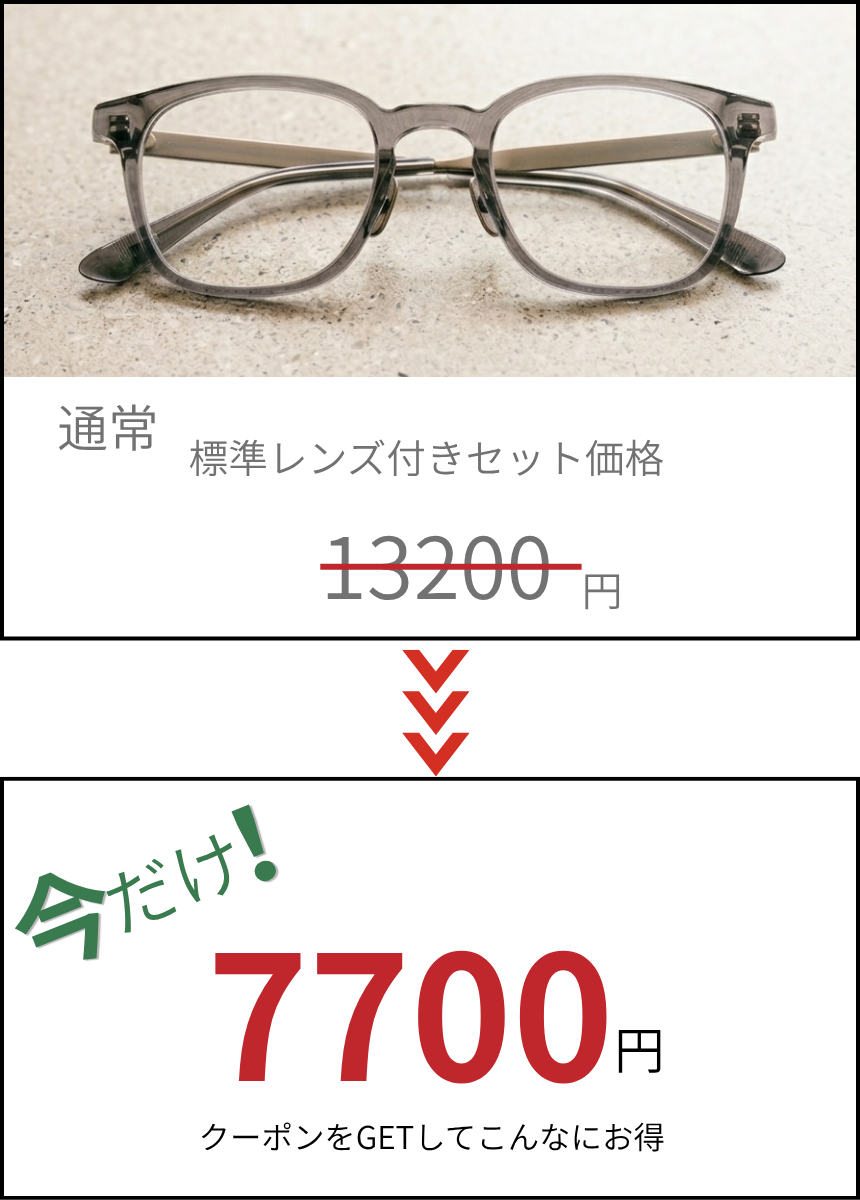
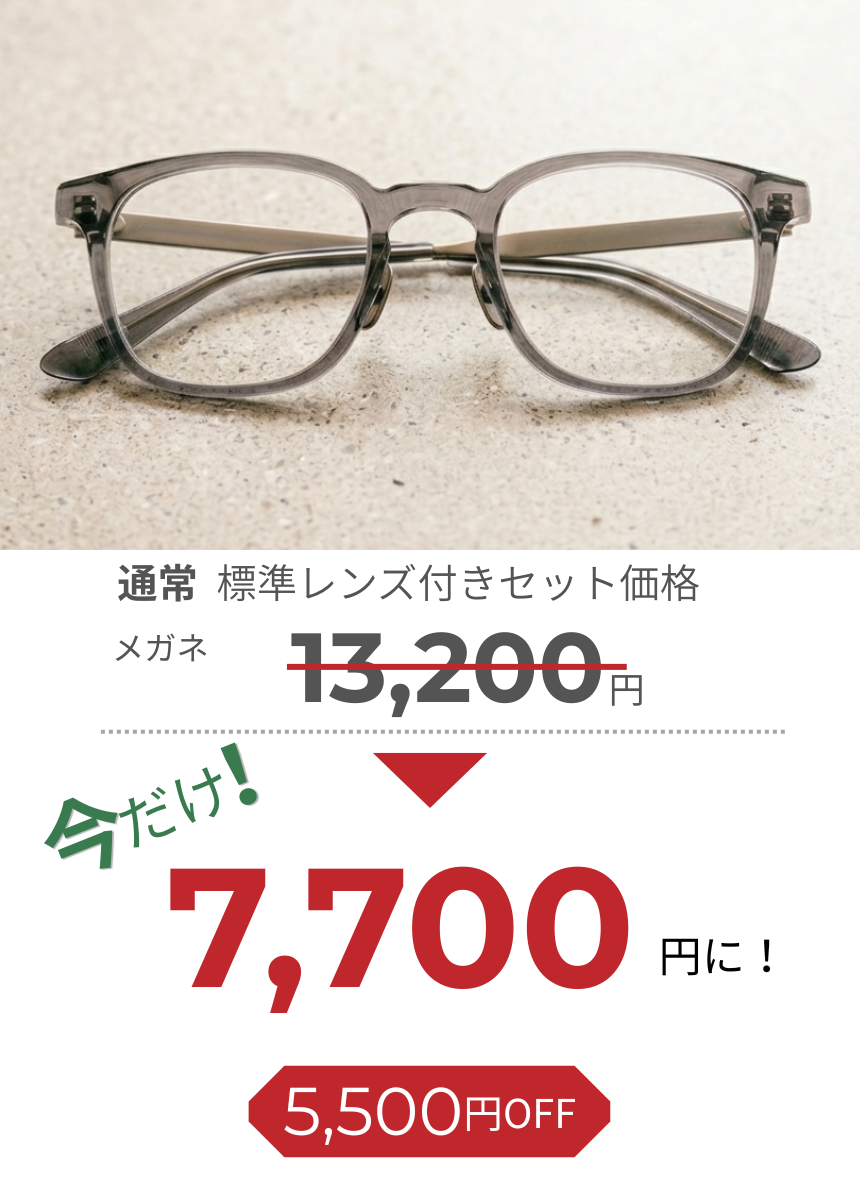
PC/スマホお得情報カード改善: レイアウト整理・カラー簡素化・スマホCanva更新
- PC版: 写真差替・通常側視認性UP・矢印をシンプル赤矢印に・今だけタグを緑枠線のみに
- PC版: OFFバッジを赤下線に変更・カード影/ホバー追加・フレックス比調整
- カラーパレット簡素化（赤+グレー+緑アクセントのみ）
- スマホ版: メガネ/サングラスCanva画像をハイブリッド版に差替
- サングラス価格確定: 11,000円→7,700円（3,300円OFF）
- 遠近両用セクション文言更新（"追加料金ゼロ"メイン・サブ追加）
- 対象商品重複削除・FVスロットパターン位置調整

diff --git a/gw-fair.html b/gw-fair.html
@@ -91,7 +91,7 @@ a:focus:not(:focus-visible) { outline: none; }
 #hero::before { display:none; }
 .hero-grid { display:none; }
 .hero-photo-single {
-  position:absolute;right:0;top:0;bottom:0;width:42%;
+  position:absolute;right:0;top:0;bottom:0;width:48%;
   z-index:0;
   overflow:hidden;
 }
@@ -100,6 +100,7 @@ a:focus:not(:focus-visible) { outline: none; }
   object-fit:cover;
   object-position:center 30%;
   display:block;
+  transform:scale(1.05);
 }
 /* スマホ用 — PC非表示 */
 .hero-photo-sp-bottom { display:none; }
@@ -110,7 +111,7 @@ a:focus:not(:focus-visible) { outline: none; }
 #hero::after {
   content:'';position:absolute;inset:0;
   background:linear-gradient(90deg, #2E5A3A 0%, #3A7A4F 70%, #4A9E6C 100%);
-  clip-path:polygon(0 0, 58% 0, 58% 100%, 0 100%);
+  clip-path:polygon(0 0, 52% 0, 52% 100%, 0 100%);
   pointer-events:none;
   z-index:1;
 }
@@ -171,18 +172,11 @@ a:focus:not(:focus-visible) { outline: none; }
   z-index:2;
   pointer-events:none;
   top:0;bottom:0;left:0;
-  width:58%;
-  background:url('images/hero/slot-pattern.png') 95% 100%/180% auto no-repeat;
+  width:50%;
+  background:url('images/hero/slot-pattern.png') calc(50% + 150px) 25%/170% auto no-repeat;
   opacity:0.7;
   mix-blend-mode:multiply;
-}
-/* 金色レイヤー */
-.hero-reel-deco::after {
-  content:'';
-  position:absolute;inset:0;
-  background:url('images/hero/slot-pattern.png') 95% 100%/180% auto no-repeat;
-  mix-blend-mode:overlay;
-  opacity:0.7;
+  overflow:hidden;
 }
 .hero-reel-deco img { display:none; }
 .slot-reel-strip { display:contents; }
@@ -1203,6 +1197,7 @@ footer {
   .pex-inner { padding:48px 16px; }
   /* ── お得カード（スマホ：Canva画像で表示） ── */
   .pex-one { position:relative;border:none;box-shadow:none;background:none;min-height:0; }
+  .pex-one::before { display:none !important; }
   .pex-one > * { display:none !important; }
   .pex-one .pex-sp-img { display:block !important;width:100%; }
   .pex-one .pex-sp-img img { width:100%;height:auto;display:block;border-radius:8px; }
@@ -1707,80 +1702,118 @@ footer {
 }
 /* ══ 横長1枚カード ══ */
 .pex-one {
+  position:relative;
   display:flex;align-items:stretch;
-  background:white;border:2px solid var(--border);border-radius:10px;
-  overflow:hidden;
-  margin-top:clamp(24px,5vw,40px);
+  background:#fff;border:none;border-radius:12px;
+  overflow:visible;
+  margin-top:clamp(44px,6vw,60px);
   max-width:1000px;margin-left:auto;margin-right:auto;
-  min-height:200px;
+  min-height:240px;
+  box-shadow:0 8px 28px rgba(0,0,0,0.08),0 2px 6px rgba(0,0,0,0.04);
+  transition:transform .3s ease,box-shadow .3s ease;
 }
+.pex-one:hover {
+  transform:translateY(-4px);
+  box-shadow:0 16px 40px rgba(0,0,0,0.12),0 4px 10px rgba(0,0,0,0.06);
+}
+/* 「今だけ」タグ（緑枠のみ） */
+.pex-one::before {
+  content:"今だけ";
+  position:absolute;
+  top:-14px;right:14%;
+  background:#fff;
+  color:#2E5A3A;
+  font-size:13px;font-weight:800;
+  padding:5px 18px 6px;
+  border:1.5px solid #2E5A3A;
+  letter-spacing:.14em;
+  z-index:1;
+}
+/* カード内部の角丸 */
+.pex-one .pex-one-photo { border-radius:12px 0 0 12px; }
+.pex-one .pex-one-now { border-radius:0 12px 12px 0; }
 .pex-one-photo {
-  width:320px;min-width:320px;background:var(--bg);
-  display:flex;align-items:center;justify-content:center;
+  width:300px;min-width:300px;background:#fff;
   flex-shrink:0;
-  font-size:14px;font-weight:700;color:var(--ink-lt);
   position:relative;
   overflow:hidden;
 }
 .pex-one-photo img { width:100%;height:100%;object-fit:cover;object-position:center center;position:absolute;inset:0; }
 .pex-one-photo img[src=""] { display:none; }
 .pex-one-normal, .pex-one-now {
-  flex:1;display:flex;flex-direction:column;justify-content:center;
-  padding:clamp(12px,2vw,20px) clamp(10px,2vw,18px);
+  display:flex;flex-direction:column;justify-content:center;
+  padding:clamp(20px,3vw,32px) clamp(16px,2.5vw,28px);
 }
-.pex-one-normal { background:var(--bg);text-align:right;align-items:flex-end;flex:0.8;opacity:0.6; }
-.pex-one-now { background:linear-gradient(135deg, #fff 0%, #FFF5F5 100%);text-align:center;align-items:center; }
+.pex-one-normal {
+  background:#FAFAFA;
+  text-align:right;align-items:flex-end;
+  flex:0.75;
+}
+.pex-one-now {
+  background:#fff;
+  text-align:center;align-items:center;
+  flex:1.25;
+  position:relative;
+}
 .pex-one-label {
-  font-size:clamp(12px,2.5vw,15px);font-weight:700;
-  color:#aaa;margin-bottom:4px;
+  font-size:clamp(13px,2.2vw,15px);font-weight:700;
+  color:#999;margin-bottom:8px;letter-spacing:.12em;
 }
-.pex-one-label-now {
-  font-size:0;color:transparent;
-  display:block;
-  width:220px;height:0;
-  padding-top:124px;
-  background:url('images/price/label-ima.png') center/contain no-repeat;
-  margin:0 auto 4px;
-}
+.pex-one-label-now { display:none; }
 .pex-one-desc {
-  font-size:11px;color:var(--ink-lt);margin-bottom:2px;
+  font-size:clamp(11px,1.8vw,13px);
+  color:#999;margin-bottom:6px;
+  letter-spacing:.02em;
 }
 .pex-one-price {
   display:flex;align-items:baseline;gap:2px;
+  white-space:nowrap;
 }
 .pex-one-num {
   font-family:'Montserrat','Noto Sans JP',sans-serif;
-  font-size:clamp(24px,5vw,36px);font-weight:700;
-  color:#bbb;line-height:1;
+  font-size:clamp(28px,4.5vw,38px);font-weight:700;
+  color:#888;line-height:1;
 }
 .pex-one-num-now {
-  font-size:clamp(44px,10vw,72px);
+  font-size:clamp(56px,8.5vw,80px);
+  font-weight:900;
   color:#C0272D;
+  letter-spacing:-.01em;
 }
 .pex-one-unit-red {
-  color:var(--ink) !important;font-weight:900;
+  color:var(--ink) !important;
+  font-weight:900;
+  font-size:.32em;
+  margin-left:2px;
 }
 .pex-one-unit {
-  font-size:clamp(13px,2.5vw,16px);font-weight:700;color:#bbb;
+  font-size:clamp(14px,2vw,17px);font-weight:700;color:#888;
+  margin-left:2px;
 }
 .pex-one-num-strike {
   text-decoration:line-through;
   text-decoration-color:#C0272D;
-  text-decoration-thickness:4px;
-  opacity:0.6;
+  text-decoration-thickness:3px;
+  color:#888;
 }
 .pex-one-save {
   display:inline-block;
-  margin-top:8px;
-  background:#C0272D;color:#fff;
-  font-weight:900;font-size:clamp(12px,2.5vw,15px);
-  padding:5px 16px;border-radius:40px;
-  letter-spacing:.04em;
+  margin-top:12px;
+  color:#C0272D;
+  font-weight:900;font-size:clamp(15px,2.6vw,19px);
+  letter-spacing:.06em;
+  border-bottom:2px solid #C0272D;
+  padding:2px 4px 4px;
 }
 .pex-one-arrow {
-  flex-shrink:0;display:flex;align-items:center;justify-content:center;
-  font-size:clamp(24px,4vw,36px);color:var(--green);font-weight:900;
-  padding:0 clamp(8px,1.5vw,16px);
+  flex-shrink:0;
+  display:flex;align-items:center;justify-content:center;
+  font-size:clamp(36px,5vw,52px);
+  color:#C0272D;
+  font-weight:300;
+  padding:0 clamp(10px,1.5vw,18px);
+  line-height:1;
+  background:#FAFAFA;
 }
 .pex-enkin {
   margin-top:clamp(20px,4vw,32px);
@@ -1804,8 +1837,13 @@ footer {
   display:inline-block;
   margin:0 2px;
 }
+.pex-enkin-sub {
+  margin-top:10px;
+  font-size:clamp(13px,2.5vw,16px);font-weight:600;
+  color:var(--ink);letter-spacing:.04em;
+}
 .pex-enkin-note {
-  margin-top:6px;
+  margin-top:8px;
   font-size:clamp(10px,2vw,12px);color:var(--ink-lt);
 }
 .pex-target {
@@ -2109,29 +2147,25 @@ document.getElementById('pw-input').addEventListener('keydown',function(e){if(e.
         <span class="pex-one-desc">標準レンズ付きセット価格</span>
         <div class="pex-one-price"><span class="pex-one-num pex-one-num-strike">13,200</span><span class="pex-one-unit">円</span></div>
       </div>
-      <div class="pex-one-arrow">▶</div>
+      <div class="pex-one-arrow">→</div>
       <div class="pex-one-now">
-        <span class="pex-one-label pex-one-label-now">今だけ</span>
-        <span class="pex-one-desc">標準レンズ付きセット価格</span>
-        <div class="pex-one-price"><span class="pex-one-num pex-one-num-now">7,700</span><span class="pex-one-unit pex-one-unit-red">円に！</span></div>
+        <div class="pex-one-price"><span class="pex-one-num pex-one-num-now">7,700</span><span class="pex-one-unit-red">円に！</span></div>
         <span class="pex-one-save">5,500円OFF</span>
       </div>
     </div>
 
     <!-- サングラス用カード -->
     <div class="pex-one rv" style="margin-top:clamp(16px,3vw,24px);">
-      <div class="pex-sp-img"><img src="images/price/price-card-sunglasses.png" alt="サングラス 通常13,200円が今だけ9,900円"></div>
-      <div class="pex-one-photo"><img src="images/price/price-sunglasses.jpg" alt="サングラス写真" style="transform:scale(1.3);"></div>
+      <div class="pex-sp-img"><img src="images/price/price-card-SG.png" alt="サングラス 通常11,000円が今だけ7,700円"></div>
+      <div class="pex-one-photo"><img src="images/price/price-SG.png" alt="サングラス写真"></div>
       <div class="pex-one-normal">
         <span class="pex-one-label">通常</span>
         <span class="pex-one-desc">サングラス価格</span>
-        <div class="pex-one-price"><span class="pex-one-num pex-one-num-strike">13,200</span><span class="pex-one-unit">円</span></div>
+        <div class="pex-one-price"><span class="pex-one-num pex-one-num-strike">11,000</span><span class="pex-one-unit">円</span></div>
       </div>
-      <div class="pex-one-arrow">▶</div>
+      <div class="pex-one-arrow">→</div>
       <div class="pex-one-now">
-        <span class="pex-one-label pex-one-label-now">今だけ</span>
-        <span class="pex-one-desc">サングラス価格</span>
-        <div class="pex-one-price"><span class="pex-one-num pex-one-num-now">9,900</span><span class="pex-one-unit pex-one-unit-red">円に！</span></div>
+        <div class="pex-one-price"><span class="pex-one-num pex-one-num-now">7,700</span><span class="pex-one-unit-red">円に！</span></div>
         <span class="pex-one-save">3,300円OFF</span>
       </div>
     </div>
@@ -2139,12 +2173,11 @@ document.getElementById('pw-input').addEventListener('keydown',function(e){if(e.
 
     <!-- 遠近両用レンズ訴求 -->
     <div class="pex-enkin rv">
-      <p class="pex-enkin-main">遠近両用レンズが<strong><span style="font-size:0.5em;vertical-align:top;line-height:1;">&ldquo;</span><span class="pex-enkin-zero">0</span><span style="font-size:0.5em;vertical-align:top;line-height:1;">&rdquo;</span>円</strong>で作れる</p>
-      <p class="pex-enkin-note">◇遠近両用標準レンズ使用時</p>
+      <p class="pex-enkin-main">遠近両用も<strong>&ldquo;追加料金<span class="pex-enkin-zero">0</span>&rdquo;</strong></p>
+      <p class="pex-enkin-sub">フレーム＋標準レンズのセット価格そのまま</p>
+      <p class="pex-enkin-note">◇標準遠近両用レンズ使用時　◇薄型・コーティング等のオプションレンズは別途料金</p>
     </div>
 
-    <!-- 対象商品 -->
-    <p class="pex-target rv">対象商品：メガネ・サングラス<br>コンタクト・補聴器・アクセサリー</p>
   </div>
 </section>
 
